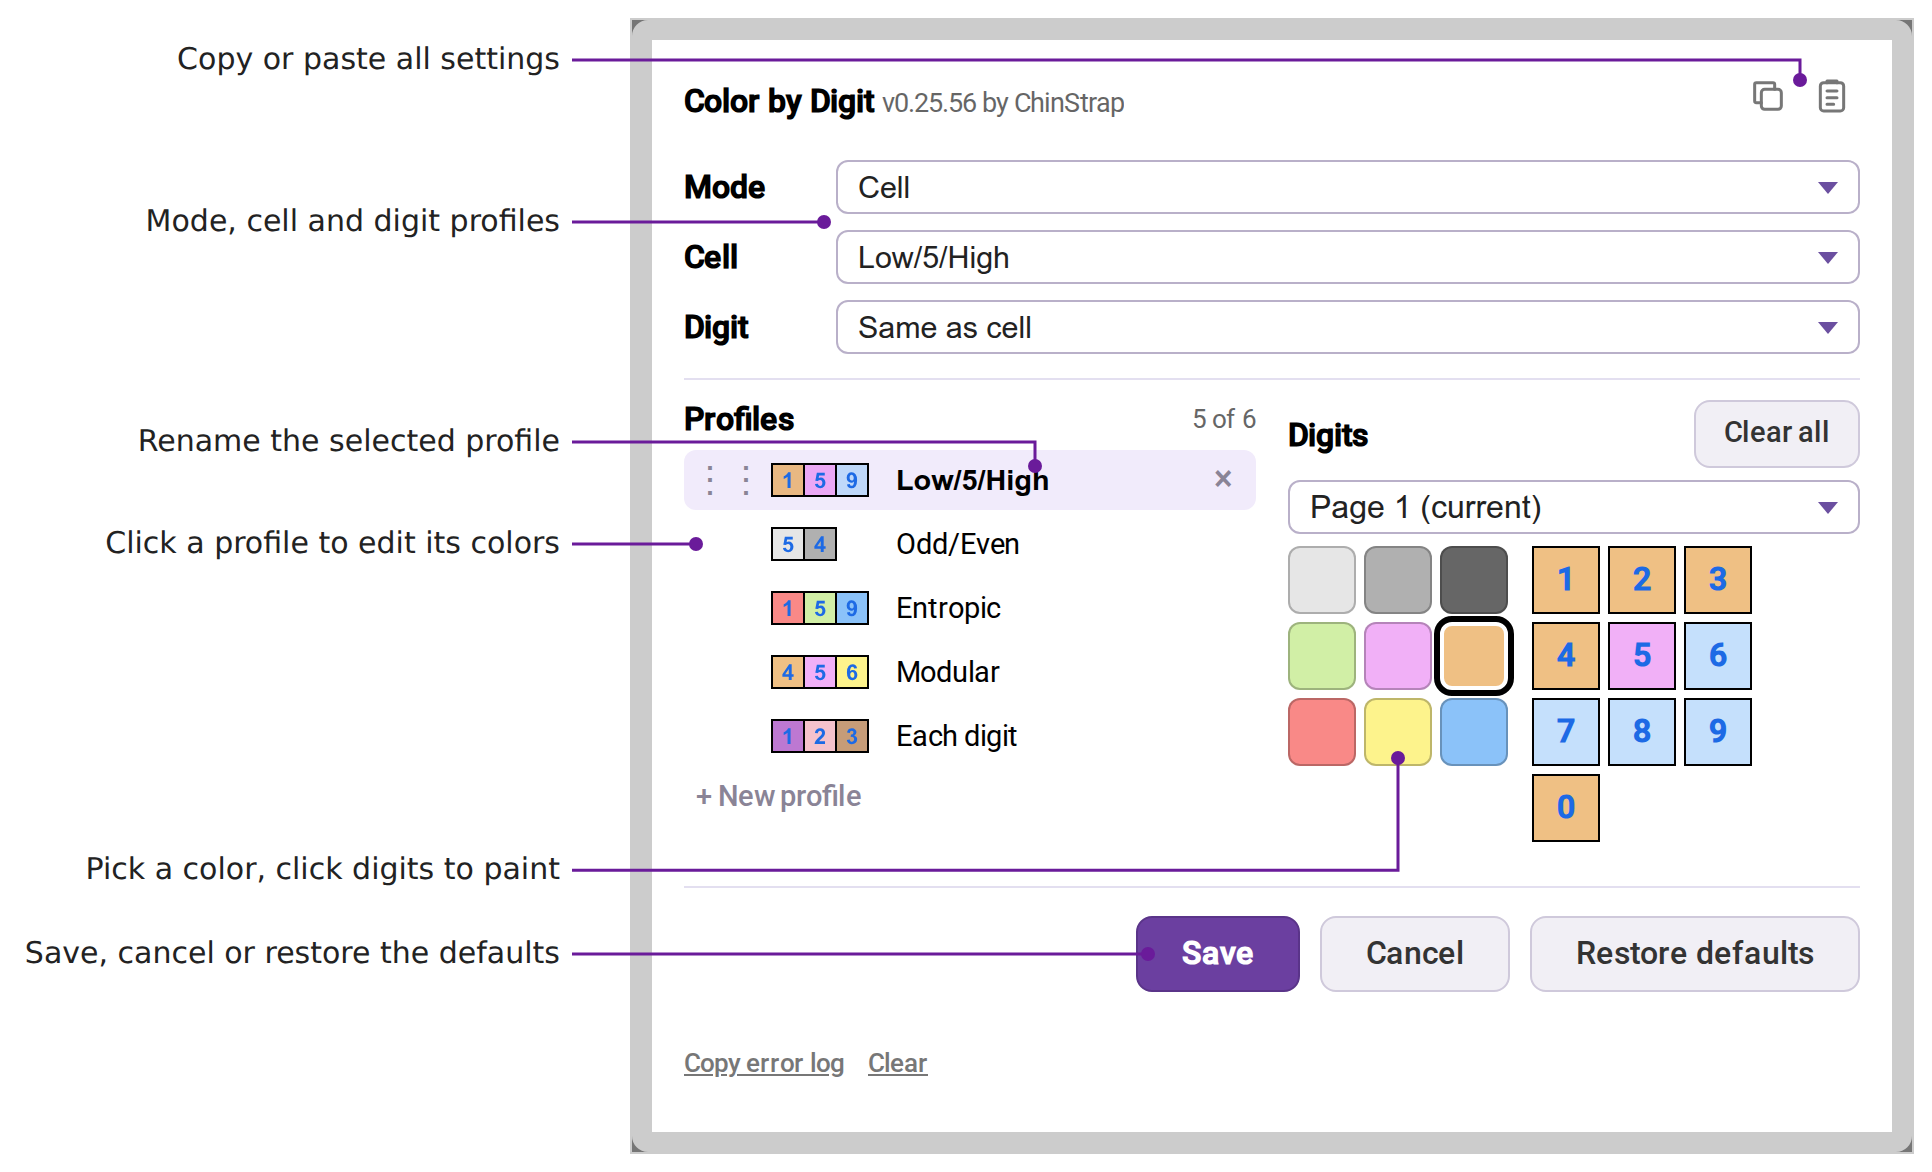
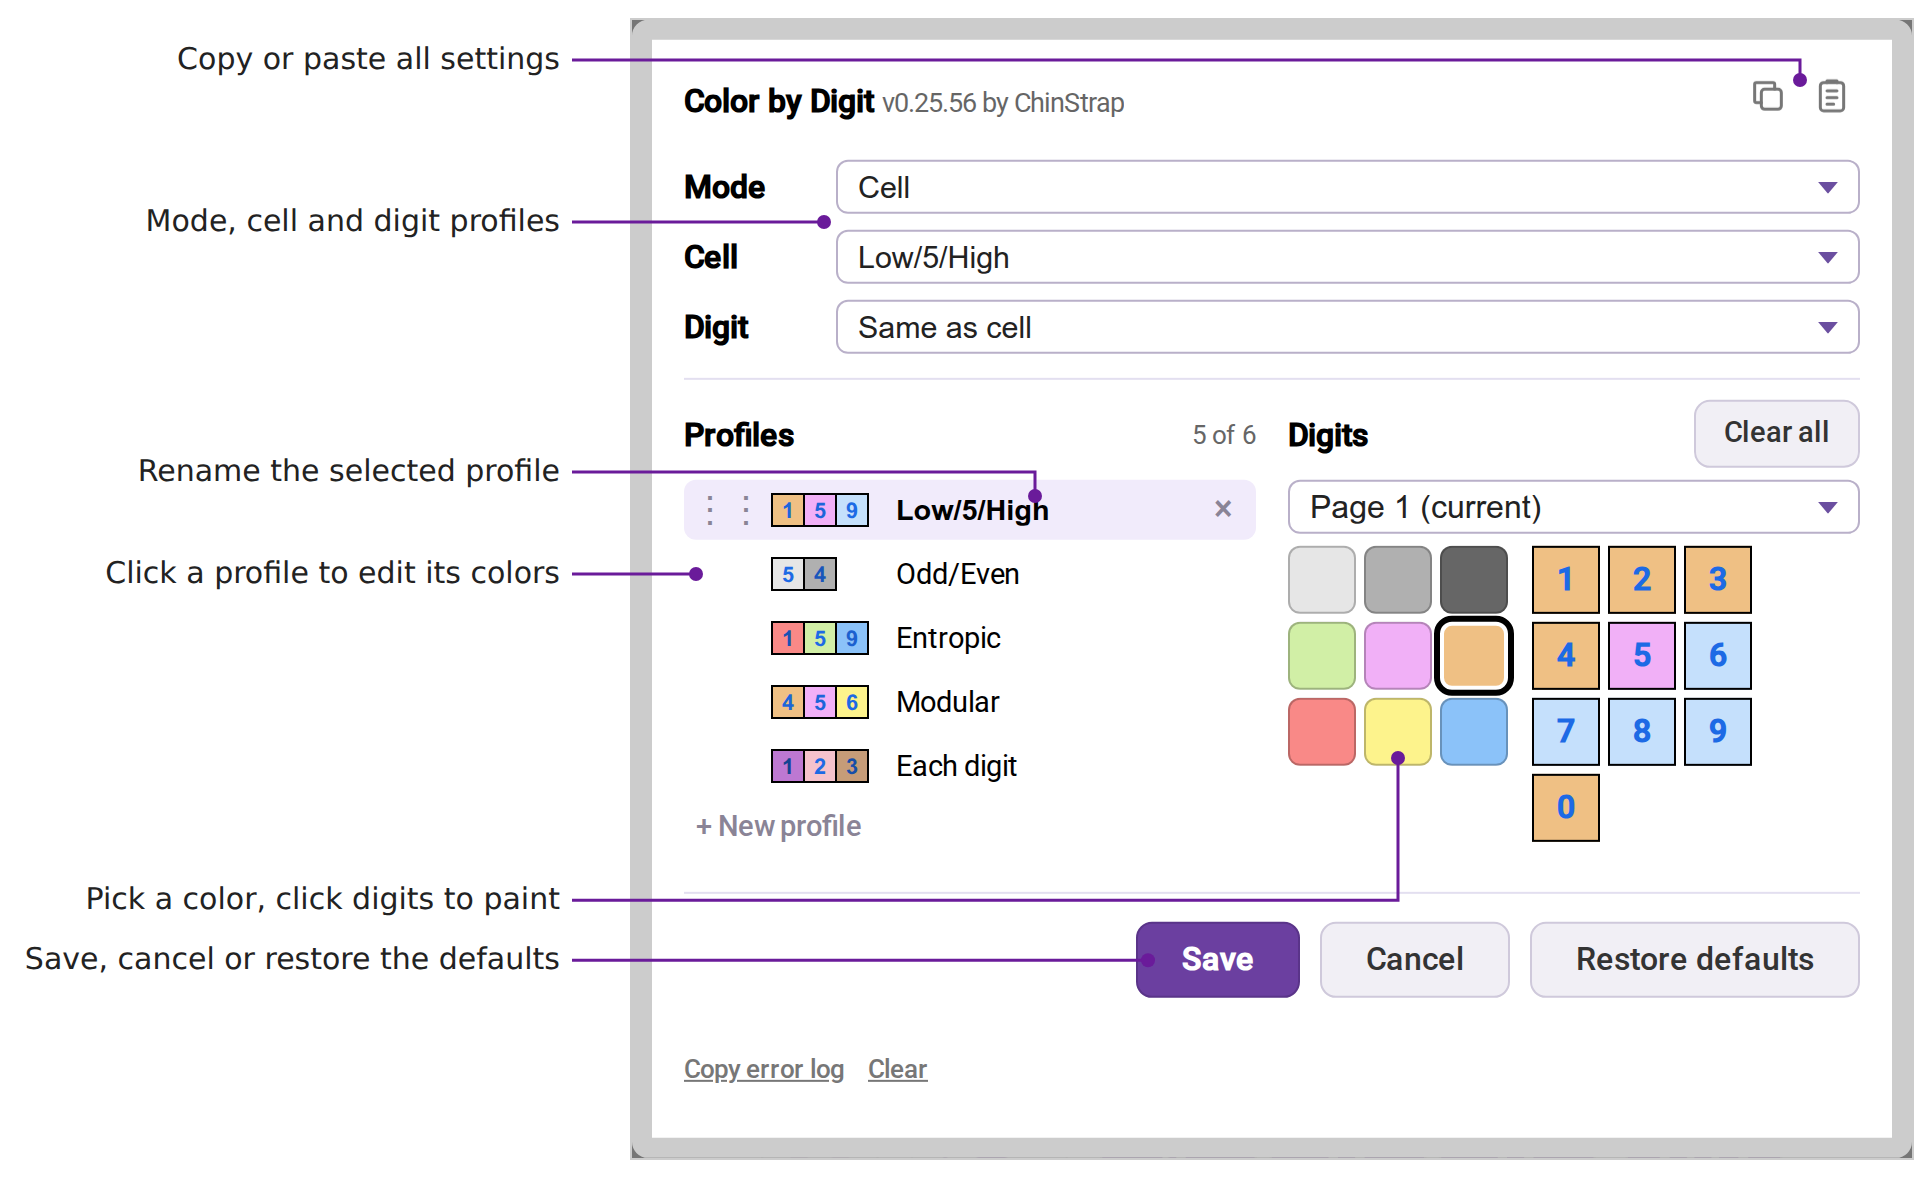
Color by Digit dialog: aligned headings, one-line names, one Tab stop per grid, explained limit, in-dialog confirm (#959)
Closes #959

diff --git a/color-by-digit.user.js b/color-by-digit.user.js
@@ -1965,6 +1965,7 @@
   const ACTIVE_INK = '#5b2a9a'
   const HOVER_FILL = '#f6f3f9'
   const NAME_PAD = 6
+  const FULL_NOTE = `${MAX_PROFILES} profiles is the most. Delete one to add another.`
   function renderProfiles (state, colorOf, selected) {
     const only = state.profiles.length <= 1
     const rows = state.profiles.map((profile, i) => {
@@ -1972,17 +1973,20 @@
       return `<div class="cbd-profile" data-role="profile-row" data-act="select" data-index="${i}" role="radio" aria-checked="${chosen}" tabindex="${chosen ? 0 : -1}" aria-label="${escapeHtml(profile.name)}">` +
         `<span data-role="handle" data-index="${i}" title="Drag to reorder">&#8942;&#8942;</span>` +
         `<span class="cbd-chips">${renderChips(cellChips(profile.groups), colorOf, { size: CHIP_PX })}</span>` +
-        (chosen ? `<input type="text" data-role="profile-name" maxlength="${MAX_NAME_LENGTH}" value="${escapeHtml(profile.name)}" aria-label="Profile name">` : `<span class="cbd-name">${escapeHtml(profile.name)}</span>`) +
+        (chosen ? `<input type="text" data-role="profile-name" maxlength="${MAX_NAME_LENGTH}" value="${escapeHtml(profile.name)}" aria-label="Profile name">` : `<span class="cbd-name" title="${escapeHtml(profile.name)}">${escapeHtml(profile.name)}</span>`) +
         `<button type="button" class="cbd-text-button" data-act="delete" data-index="${i}" aria-label="Delete profile ${escapeHtml(profile.name)}"${only ? ' disabled' : ''}>&#215;</button></div>`
     }).join('')
     const full = state.profiles.length >= MAX_PROFILES
     return heading('Profiles', `<span class="cbd-count">${state.profiles.length} of ${MAX_PROFILES}</span>`) +
       `<div role="radiogroup" aria-label="Profile to edit">${rows}</div>` +
-      `<button type="button" class="cbd-text-button" data-act="new-profile"${full ? ' disabled' : ''}>+ New profile</button>`
+      `<button type="button" class="cbd-text-button" data-act="new-profile"${full ? ` disabled title="${FULL_NOTE}"` : ''}>+ New profile</button>` +
+      (full ? `<div class="cbd-note" data-role="full-note">${FULL_NOTE}</div>` : '')
   }
 
   const MENU_ROW = 'display:flex;align-items:center;gap:8px;height:26px;padding:0 8px 0 6px;border-radius:6px'
   const MENU_DOT_COLUMN = 44
+  // A long name is cut with an ellipsis past this, rather than widen the menu.
+  const MENU_MAX_PX = 300
   const DOT_RING = '#cfc7da'
   const chipColumn = (groups, colorOf) =>
     `<span data-role="chip-column" style="display:flex;flex:none;width:${CHIP_COLUMN_PX}px">${renderChips(cellChips(groups), colorOf, { size: CHIP_PX })}</span>`
@@ -2034,10 +2038,15 @@
       '</div>'
   }
 
+  const RESTORE_ASK = 'Restore the preloaded profiles? Your own profiles and edits are removed when you Save.'
+  const renderRestoreConfirm = () => '<div class="cbd-note cbd-confirm" role="alertdialog" aria-label="Restore defaults" data-role="restore-confirm">' +
+    `<div>${RESTORE_ASK}</div><div class="cbd-confirm-buttons"><button type="button" class="cbd-button" data-act="restore-keep">Keep my profiles</button>` +
+    '<button type="button" class="cbd-button" data-act="restore-go">Restore defaults</button></div></div>'
+
   // Matched as text, not by a selector, since a custom palette's key may hold a quote.
   const swatchWithKey = (root, key) => [...root.querySelectorAll('button[data-role="swatch"]')].find((swatch) => swatch.dataset.key === key)
 
-  function renderEditor ({ groups, pages, page, brush, pulldownsHtml = '', profilesHtml = '', unreadable = false }) {
+  function renderEditor ({ groups, pages, page, brush, pulldownsHtml = '', profilesHtml = '', unreadable = false, confirmHtml = '' }) {
     const colors = layoutColors(pages)
     const shown = pages[page] || pages[0]
     const clear = '<button type="button" class="cbd-button" data-act="clear">Clear all</button>'
@@ -2045,7 +2054,7 @@
       ? '<div class="cbd-note">No palette colors found: digits cannot be painted.</div>' + renderPad(groups, colors)
       : renderPaint(groups, pages, shown, brush, colors)
     const kept = unreadable ? `<div class="cbd-note" data-role="unreadable">Profiles saved earlier could not be read; they are kept under ${PROFILES_KEY}${UNREADABLE_SUFFIX}.</div>` : ''
-    return `${kept}${pulldownsHtml}` +
+    return `${kept}${confirmHtml}${pulldownsHtml}` +
       `<div class="cbd-columns cbd-divider"><div class="cbd-column">${profilesHtml}</div>` +
       `<div class="cbd-column">${heading('Digits', clear)}${paint}</div></div>`
   }
@@ -2067,11 +2076,13 @@
   ].join('\n')
 
   const STYLE_CSS = [
-    [`${EDITOR} .cbd-heading`, 'display: flex; align-items: center; justify-content: space-between; font-weight: 600; margin: 0 0 6px'],
+    [`${EDITOR} .cbd-heading`, 'display: flex; align-items: center; justify-content: space-between; font-weight: 600; margin: 0 0 6px; height: 34px'],
     [`${EDITOR} .cbd-count`, 'font-weight: 400; font-size: .8rem; color: #666'],
     [DIALOG, `width: ${DIALOG_WIDTH}px; max-width: calc(100vw - 16px); box-sizing: border-box`],
     [`${EDITOR} .cbd-divider`, `border-top: 1px solid ${RULE_COLOR}; margin: 12px 0 0; padding-top: 10px`],
     [`${EDITOR} .cbd-note`, 'margin: 6px 0'],
+    [`${EDITOR} .cbd-confirm`, `background: ${ACTIVE_FILL}; border: 1px solid ${ACTIVE_RING}; border-radius: 8px; padding: 8px 10px; margin: 0 0 10px`],
+    [`${EDITOR} .cbd-confirm-buttons`, 'display: flex; gap: 8px; margin-top: 8px'],
     [`${EDITOR} .cbd-pulldowns`, 'display: grid; gap: 8px; margin: 0 0 10px'],
     [`${EDITOR} .cbd-pulldown`, `display: grid; grid-template-columns: ${PULLDOWN_LABEL_WIDTH}px minmax(0, 1fr); align-items: center; gap: 12px; min-width: 0; margin: 0; padding: 0; font-weight: 600; text-align: left`],
     [`${EDITOR} .cbd-columns`, `display: grid; gap: 16px; grid-template-columns: repeat(auto-fit, minmax(${COLUMN_MIN}px, 1fr))`],
@@ -2094,7 +2105,7 @@
     // One width for every run, so the names line up.
     [`${EDITOR} .cbd-chips`, `display: flex; flex: none; width: ${CHIP_COLUMN_PX}px`],
     // Its left padding is the name field's padding and border, so a name starts where the selected row's does.
-    [`${EDITOR} .cbd-name`, `flex: 1; min-width: 0; padding-left: ${NAME_PAD + 1}px; overflow-wrap: anywhere; text-align: left; font-size: .9rem; font-weight: 400`],
+    [`${EDITOR} .cbd-name`, `flex: 1; min-width: 0; padding-left: ${NAME_PAD + 1}px; white-space: nowrap; overflow: hidden; text-overflow: ellipsis; text-align: left; font-size: .9rem; font-weight: 400`],
     [`${EDITOR} .cbd-text-button`, `background: none; border: none; box-shadow: none; color: ${MUTED}; font-size: .9rem; font-weight: 500; padding: 2px 6px; margin: 0; width: auto; min-width: 0; height: auto; line-height: 1.4; border-radius: 6px; cursor: pointer`],
     [`${EDITOR} .cbd-text-button:hover:not(:disabled)`, `background: ${HOVER_FILL}; color: #222`],
     [`${EDITOR} .cbd-text-button:disabled`, 'opacity: .4; cursor: default'],
@@ -2713,7 +2724,7 @@
     menu = document.createElement('div')
     menu.id = MENU.slice(1)
     menu.setAttribute('role', 'menu')
-    menu.style.cssText = 'position:fixed;z-index:10000;width:max-content;max-width:calc(100vw - 8px);box-sizing:border-box;padding:6px;border-radius:10px;background:#fff;color:#1d1b26;' +
+    menu.style.cssText = `position:fixed;z-index:10000;width:max-content;max-width:min(calc(100vw - 8px), ${MENU_MAX_PX}px);box-sizing:border-box;padding:6px;border-radius:10px;background:#fff;color:#1d1b26;` +
       'box-shadow:0 10px 30px rgba(30,20,60,.28),0 0 0 1px rgba(0,0,0,.08);font:14px/1.2 sans-serif;text-align:left;user-select:none'
     menu.innerHTML = renderMenu(loadState(), readColor)
     document.body.appendChild(menu)
@@ -2874,15 +2885,28 @@
     })
     if (!box) return
     // The draft takes the preloaded profiles, and Save or Cancel decides. Profiles of the user's own are lost on Save, so a draft that holds any asks first.
+    let confirming = false
     const restoreDefaults = () => {
-      if (JSON.stringify(draft.state.profiles) !== JSON.stringify(preloadedState().profiles) && !window.confirm('Restore the preloaded profiles? Your own profiles and edits are removed when you Save.')) return
+      if (JSON.stringify(draft.state.profiles) !== JSON.stringify(preloadedState().profiles)) {
+        confirming = true
+        draw()
+        box.querySelector('[data-act="restore-keep"]').focus()
+        return
+      }
       edit({ type: 'restore' })
       draw()
     }
+    // Each paint grid is one Tab stop, the pressed swatch or the last key focused, and the arrow keys move within it.
+    const setStop = (grid, stop) => grid.querySelectorAll('button').forEach((button) => { button.tabIndex = button === stop ? 0 : -1 })
     const draw = () => {
       const { state, mode: draftMode, selected, pages, page, brush } = draft
-      box.innerHTML = renderEditor({ groups: state.profiles[selected].groups, pages, page, brush, pulldownsHtml: renderPulldowns(state, draftMode), profilesHtml: renderProfiles(state, readColor, selected), unreadable })
+      box.innerHTML = renderEditor({ groups: state.profiles[selected].groups, pages, page, brush, pulldownsHtml: renderPulldowns(state, draftMode), profilesHtml: renderProfiles(state, readColor, selected), unreadable, confirmHtml: confirming ? renderRestoreConfirm() : '' })
+      box.querySelectorAll(PAINT_GRIDS).forEach((grid) => setStop(grid, grid.querySelector('[aria-pressed="true"]') || grid.querySelector('button')))
     }
+    box.addEventListener('focusin', (event) => {
+      const grid = event.target.closest(PAINT_GRIDS)
+      if (grid && event.target.matches('button')) setStop(grid, event.target)
+    })
     const edit = (event) => {
       const before = draft
       draft = reduceDraft(draft, event)
@@ -3025,6 +3049,13 @@
       event.preventDefault()
       event.stopPropagation()
       const act = el.dataset.act
+      if (act === 'restore-keep' || act === 'restore-go') {
+        confirming = false
+        if (act === 'restore-go') edit({ type: 'restore' })
+        draw()
+        box.closest('.dialog').querySelector('[data-role="restore"]').focus()
+        return
+      }
       if (act === 'new-profile') {
         if (!edit({ type: 'new-profile' })) return
         draw()

diff --git a/site/color-by-digit.html b/site/color-by-digit.html
@@ -56,10 +56,10 @@
 
   <h2>The settings dialog</h2>
   <p class="prose">Edit profiles, in the profile menu, opens it.</p>
-  <div class="figure"><img src="https://raw.githubusercontent.com/caneff/sudokupad-scripts/main/docs/research/color-by-digit/color-by-digit-dialog-annotated.png?v=dce9097" alt="The Color by Digit settings dialog with each part labelled on its left. Settings icons: copy or paste all settings. Pulldowns: mode, cell and digit profiles. Selected profile: rename it in its row. Profile list: click a profile to edit its colors. Palette and digits: click a color, then click or drag across digits to paint them. Bottom row: save, cancel or restore the defaults." width="966" height="514"></div>
+  <div class="figure"><img src="https://raw.githubusercontent.com/caneff/sudokupad-scripts/main/docs/research/color-by-digit/color-by-digit-dialog-annotated.png?v=d6c9fea" alt="The Color by Digit settings dialog with each part labelled on its left. Settings icons: copy or paste all settings. Pulldowns: mode, cell and digit profiles. Selected profile: rename it in its row. Profile list: click a profile to edit its colors. Palette and digits: click a color, then click or drag across digits to paint them. Bottom row: save, cancel or restore the defaults." width="966" height="514"></div>
   <p class="prose">A click on a digit already in the chosen color clears it.</p>
-  <p class="prose">Restore defaults brings back the five preloaded profiles and the Cell and Digit pulldowns' starting picks, after asking when it would remove your own profiles. Save keeps them and Cancel drops them.</p>
-  <p class="prose">From the keyboard, Tab and the arrow keys move around the colors and the digit keys, and typing 0 to 9 paints that digit.</p>
+  <p class="prose">Restore defaults brings back the five preloaded profiles and the Cell and Digit pulldowns' starting picks, after asking in the dialog when it would remove your own profiles. Save keeps them and Cancel drops them.</p>
+  <p class="prose">From the keyboard, the colors and the digit keys are one Tab stop each, the arrow keys move within them, and typing 0 to 9 paints that digit.</p>
 
   <h2>Good to know</h2>
   <ul class="notes">

diff --git a/test/site.test.js b/test/site.test.js
@@ -517,7 +517,7 @@ test(`${CBD} shows the settings dialog as one annotated picture whose alt text n
   for (const label of ['Settings icons', 'Pulldowns', 'Selected profile', 'Profile list', 'Palette and digits', 'Bottom row']) {
     assert.ok(alt.includes(label), `the picture's alt text does not name "${label}"`)
   }
-  assert.equal(plain(m[1]).trim(), 'Edit profiles, in the profile menu, opens it. A click on a digit already in the chosen color clears it. Restore defaults brings back the five preloaded profiles and the Cell and Digit pulldowns\' starting picks, after asking when it would remove your own profiles. Save keeps them and Cancel drops them. From the keyboard, Tab and the arrow keys move around the colors and the digit keys, and typing 0 to 9 paints that digit.')
+  assert.equal(plain(m[1]).trim(), 'Edit profiles, in the profile menu, opens it. A click on a digit already in the chosen color clears it. Restore defaults brings back the five preloaded profiles and the Cell and Digit pulldowns\' starting picks, after asking in the dialog when it would remove your own profiles. Save keeps them and Cancel drops them. From the keyboard, the colors and the digit keys are one Tab stop each, the arrow keys move within them, and typing 0 to 9 paints that digit.')
 })
 
 test(`${CBD} good to know gives the undo behavior, the Multi-color caveat and where the button is`, () => {

diff --git a/test/color-by-digit.test.js b/test/color-by-digit.test.js
@@ -863,7 +863,7 @@ test('renderProfiles puts the name of the selected row in an editable box in pla
   assert.match(html, new RegExp(`<input type="text" data-role="profile-name" maxlength="${MAX_NAME_LENGTH}" value="Mine &quot;x&quot;" aria-label="Profile name">`))
   assert.equal(count(html, /data-role="profile-name"/g), 1)
   assert.equal(count(html, /class="cbd-name"/g), 1)
-  assert.match(html, /<span class="cbd-name">Odd\/Even<\/span>/)
+  assert.match(html, /<span class="cbd-name" title="Odd\/Even">Odd\/Even<\/span>/)
   assert.equal(html.indexOf('data-role="profile-row"') < html.indexOf('data-role="profile-name"'), true)
   assert.equal(html.indexOf('data-role="profile-name"') < html.indexOf('data-index="1" role="radio"'), true)
 })
